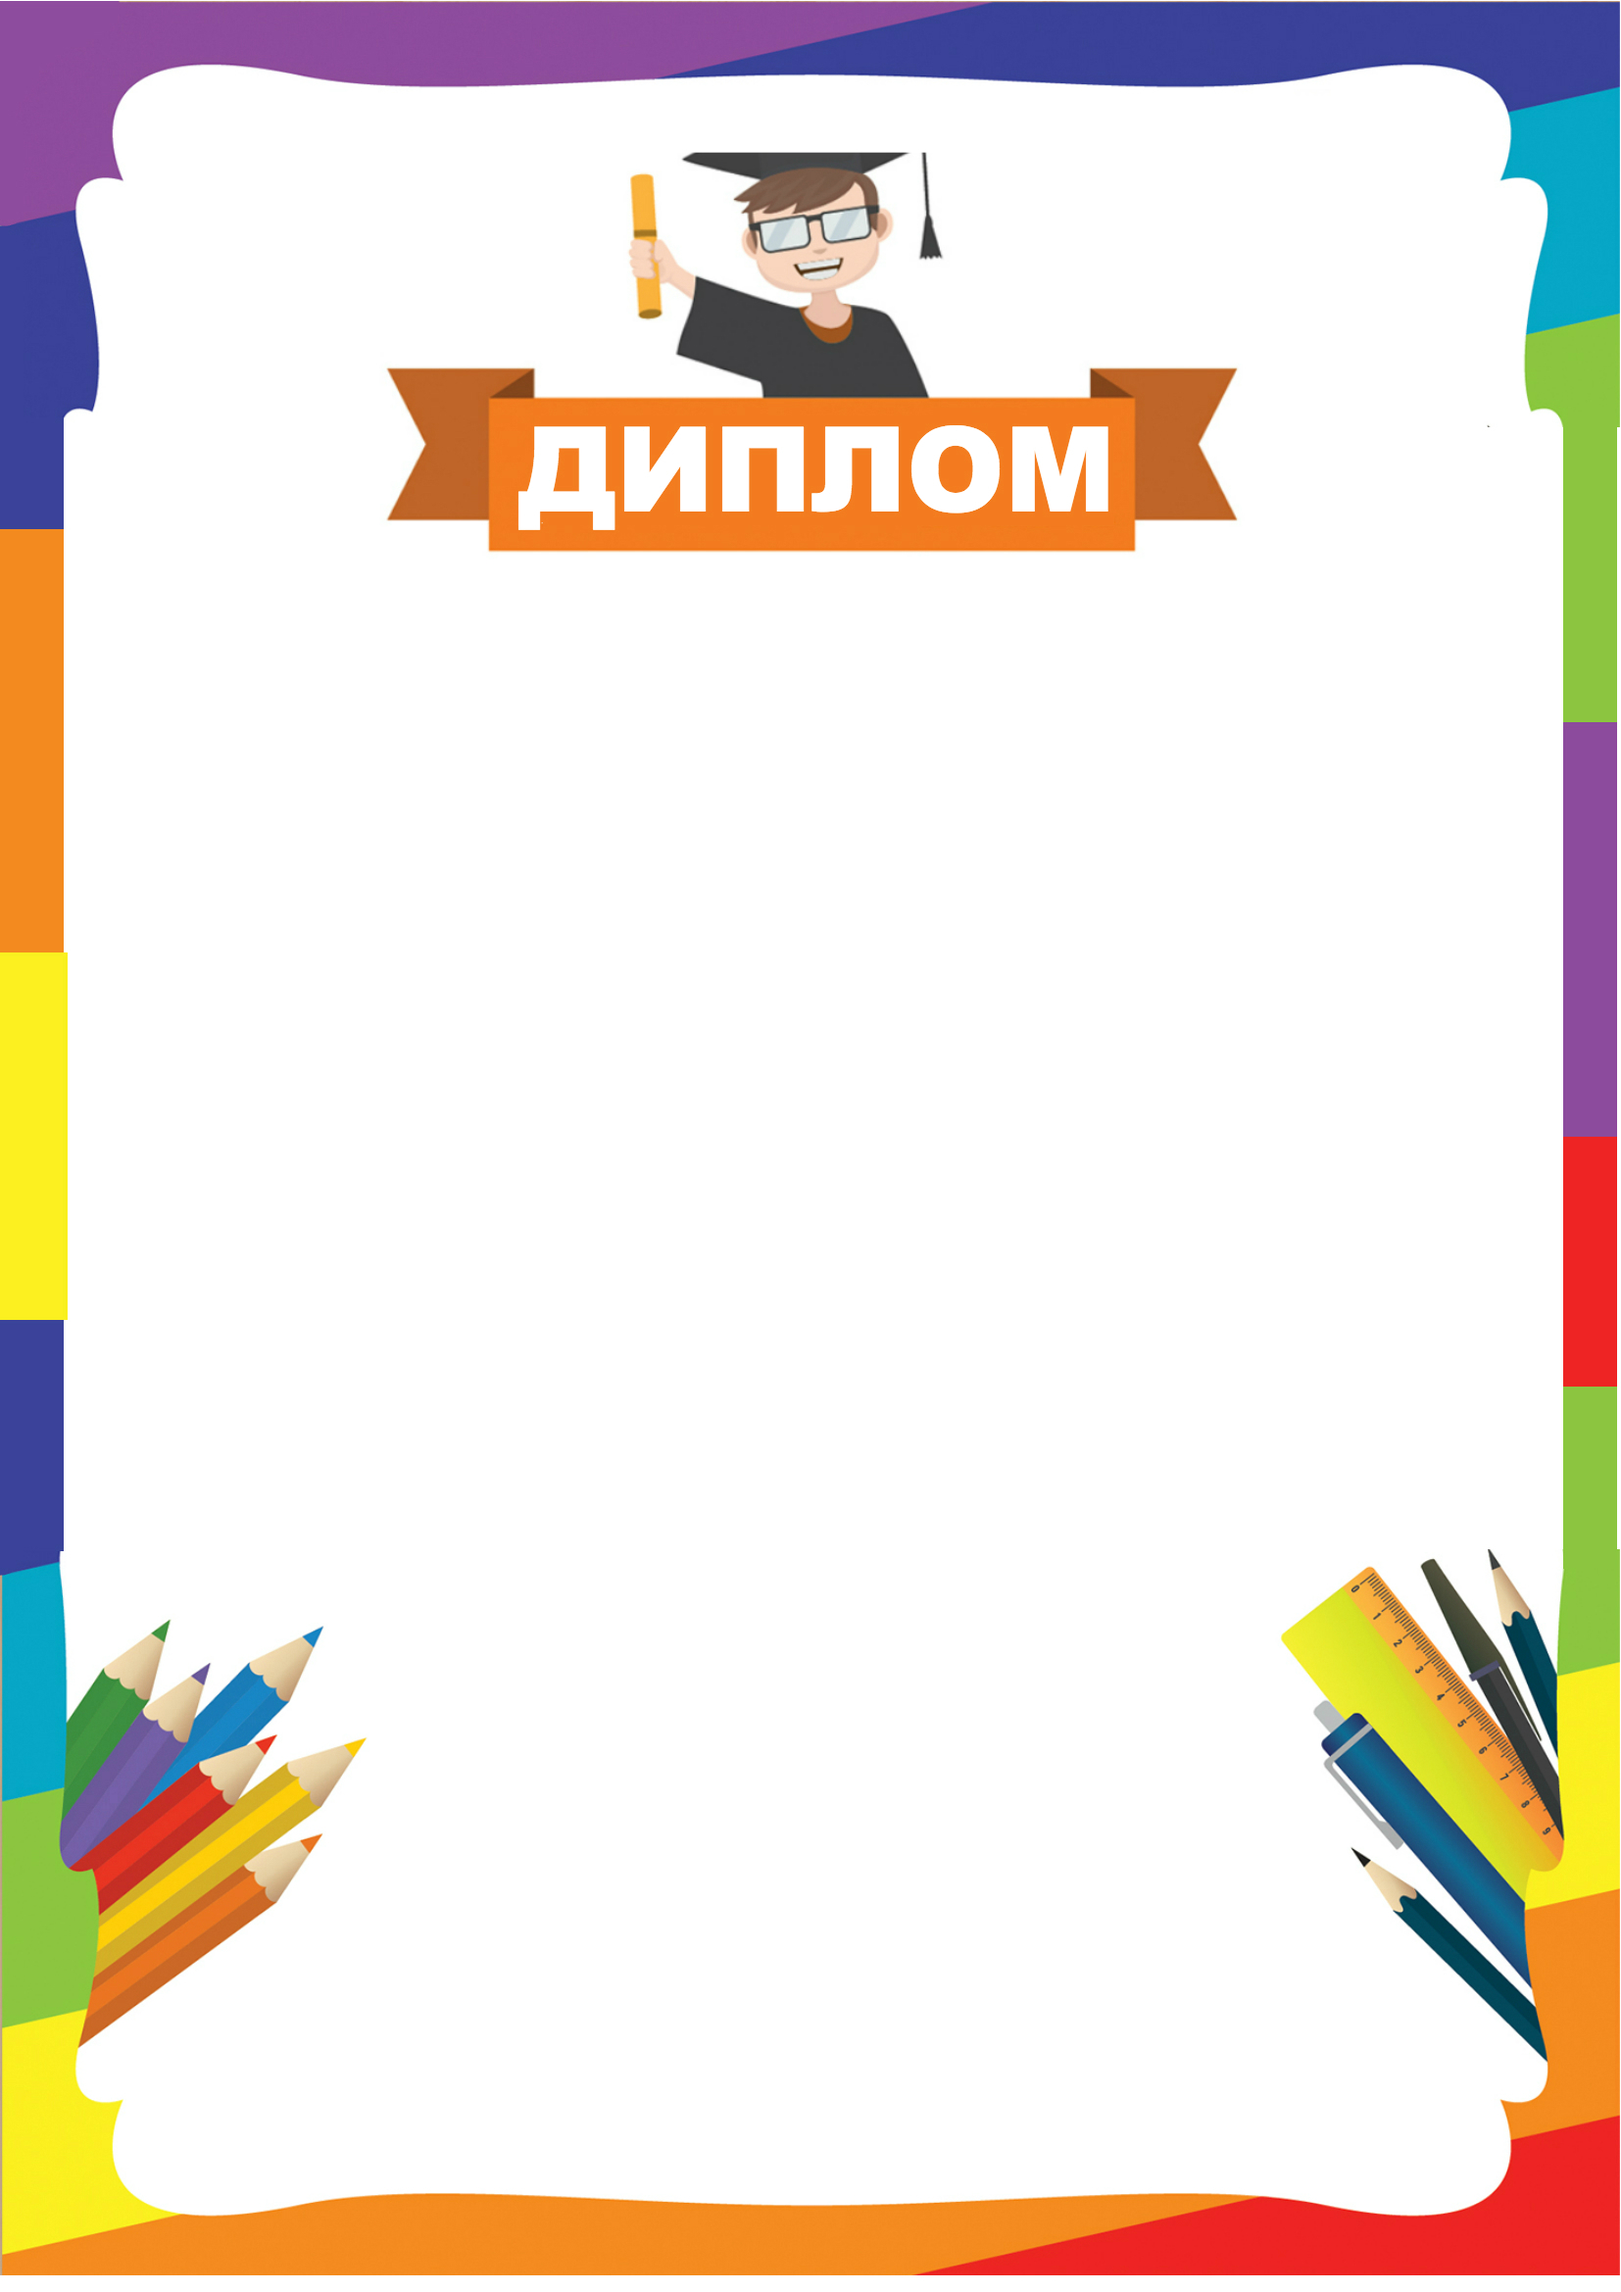
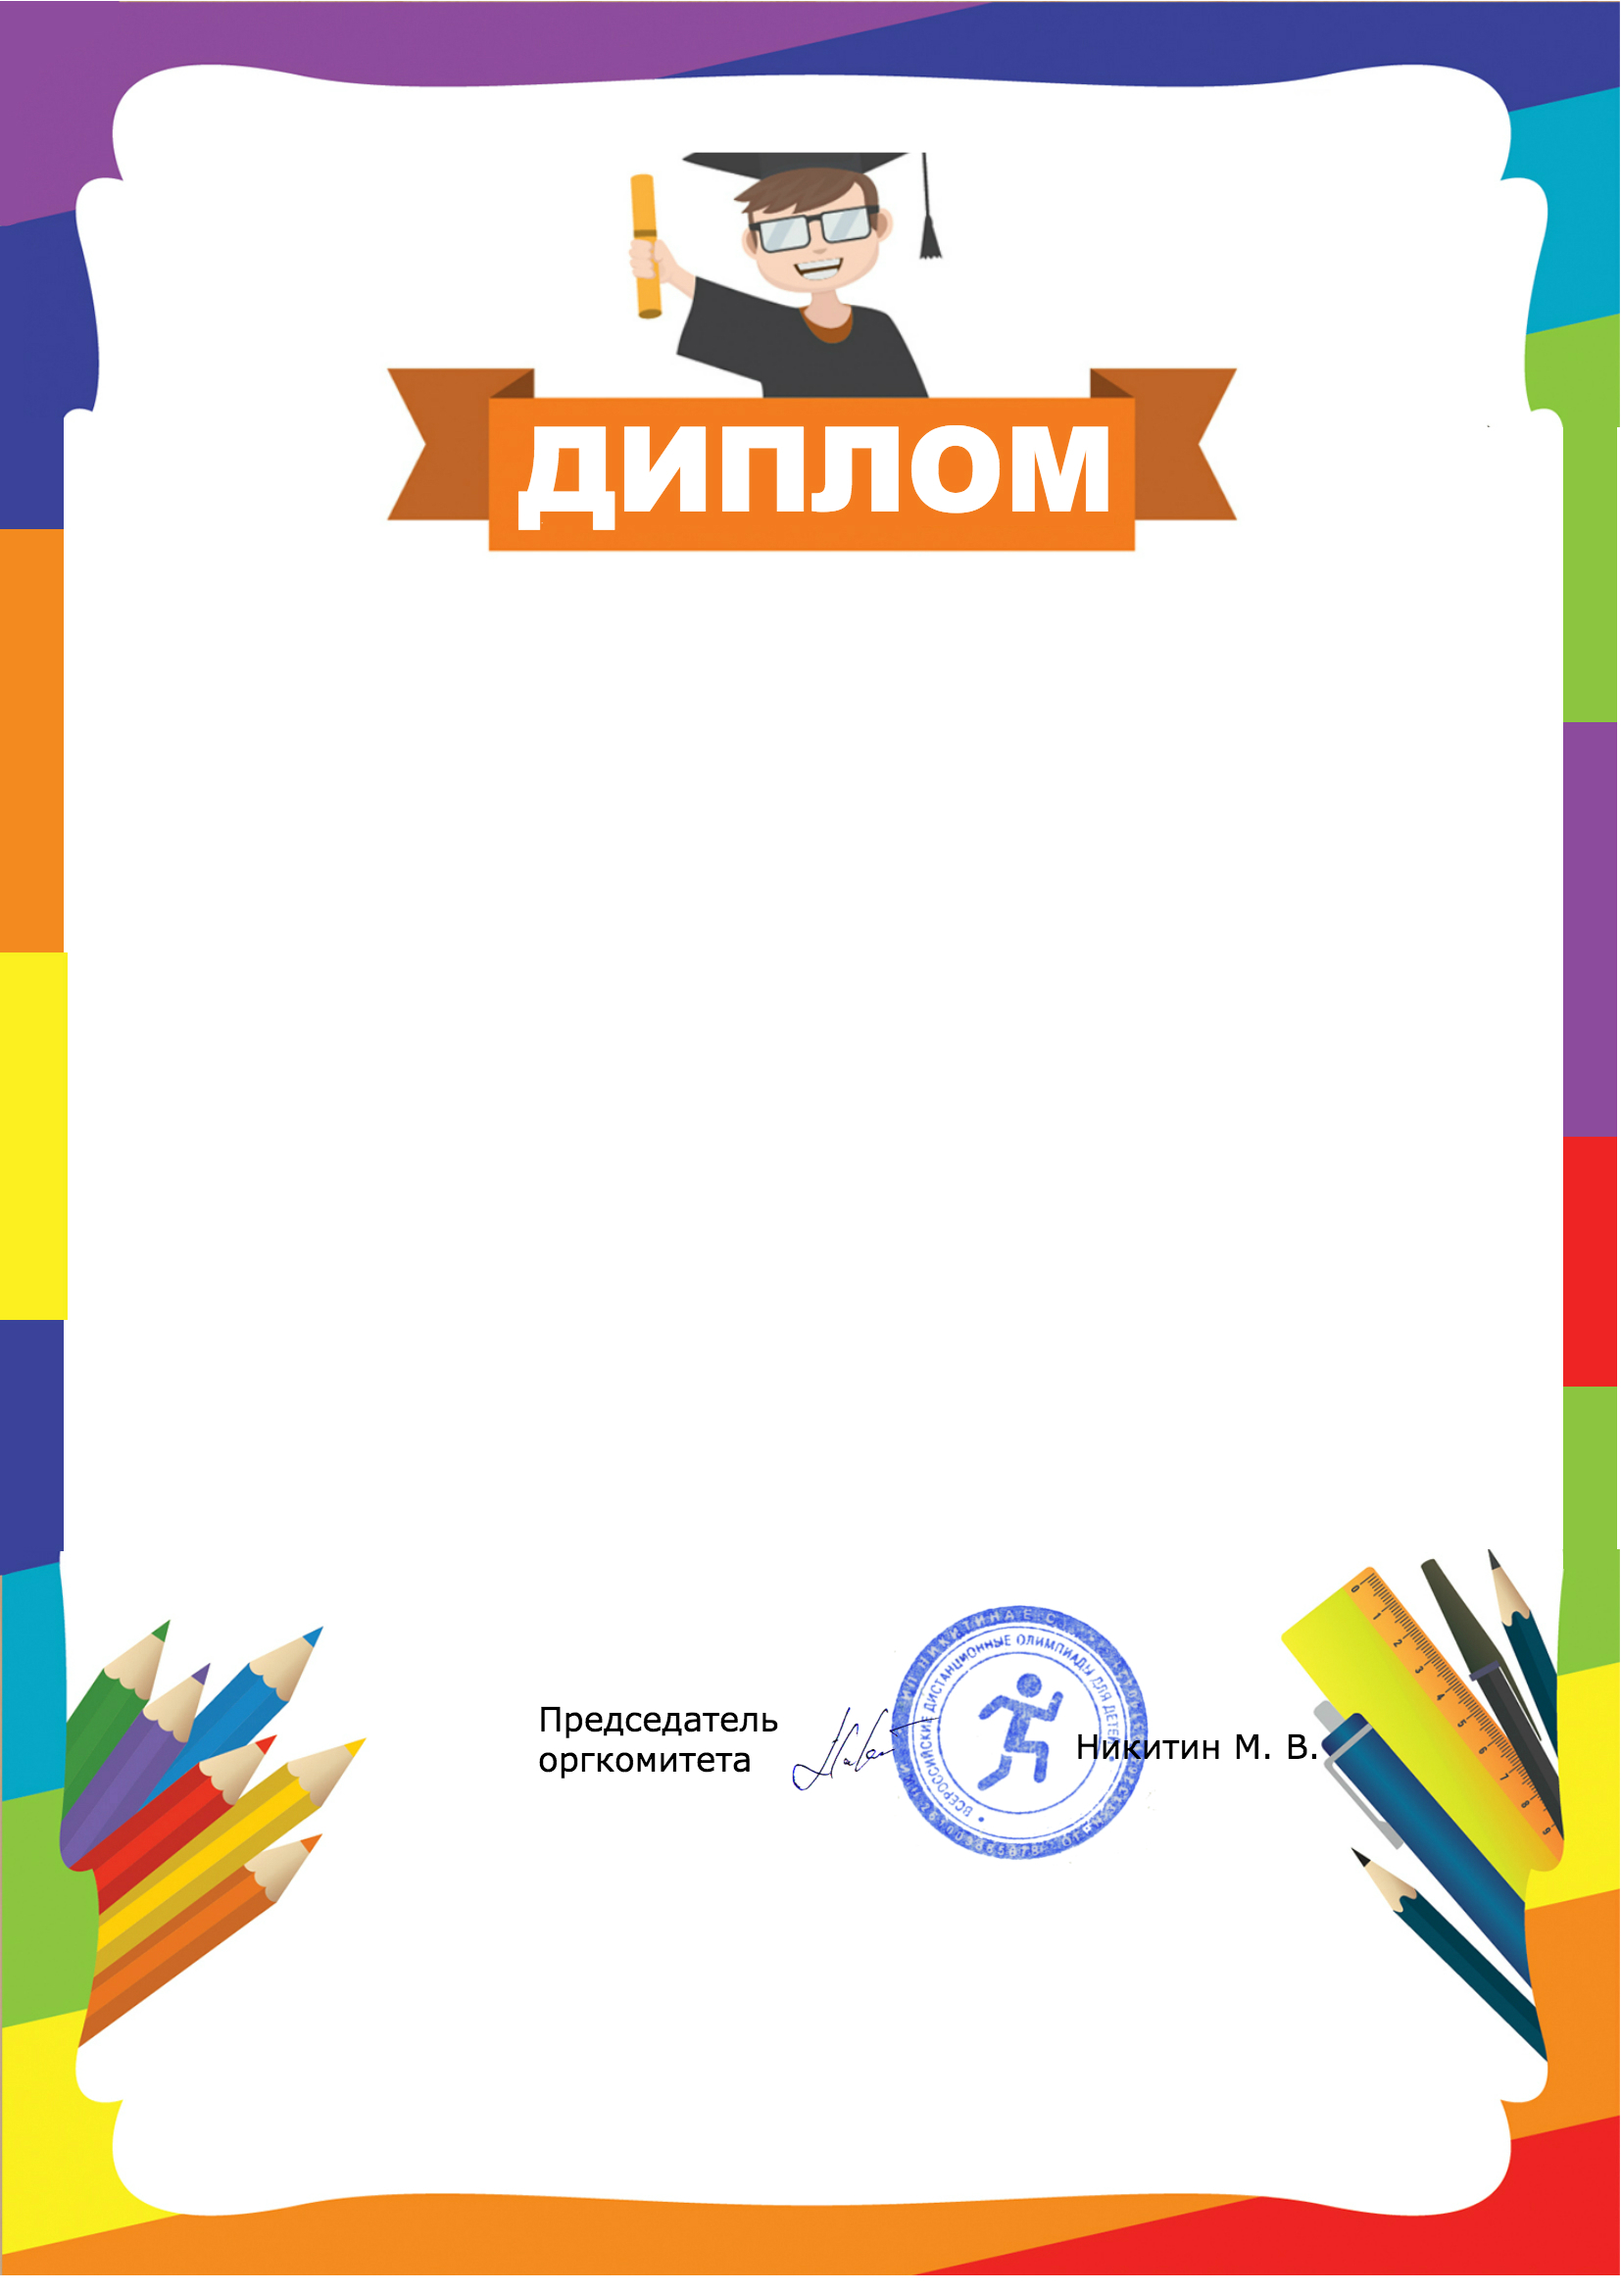
5 дипломов готовы к продаже

Changed region(s): [[0.4933, 0.6866, 0.8017, 0.8115], [0.3392, 0.749, 0.4625, 0.7802]]

diff --git a/app/models/honor.rb b/app/models/honor.rb
@@ -44,10 +44,16 @@ class Honor < ActiveRecord::Base
     margin_date=0
     margin_diploma_number=0
     color_diploma_number="#ffffff"
-    if quest_id == 3
+    vertical_margin_date=0
+    if quest_id == 3 || quest_id == 11
       reward_text_position=720
     elsif quest_id == 8
       reward_text_position=700
+      margin_date = -250
+    elsif quest_id == 14
+      reward_text_position=500
+      margin_date = -368
+      vertical_margin_date = 190
     elsif quest_id == 38 || quest_id == 41
     	reward_text_position = '640'
     	margin_date = -50
@@ -90,12 +96,16 @@ class Honor < ActiveRecord::Base
       	c.pointsize '46'
       	c.draw "text 0,#{position+580} 'Педагог: #{self.curator}'"
       end
+      
       c.pointsize '36'
-      c.draw "text #{78+margin_date},1630 '#{Russian::strftime(self.created_at, "%d.%m.%Y г.")}'"
-      c.pointsize '36'
-      c.draw "text #{50+margin_date},1730 'Главный\nредактор'"
-      c.pointsize '36'
-      c.draw "text #{600+margin_date},1750 'Никитин М. В.'"
+      c.draw "text #{78+margin_date},#{1630+vertical_margin_date} '#{Russian::strftime(self.created_at, "%d.%m.%Y г.")}'"
+      
+      if quest_id == 3 || quest_id == 6 || quest_id == 11
+        c.pointsize '36'
+        c.draw "text #{50+margin_date},1730 'Главный\nредактор'"
+        c.pointsize '36'
+        c.draw "text #{600+margin_date},1750 'Никитин М. В.'"
+      end
       c.pointsize '36'
       c.fill color_diploma_number
       c.draw "text 0,#{2280+margin_diploma_number} '№ M-#{self.id}'"

diff --git a/app/controllers/honors_controller.rb b/app/controllers/honors_controller.rb
@@ -15,9 +15,9 @@ class HonorsController < ApplicationController
       when 8
          @output_diploma = @honor.diploma_number1(@honor.quest_id, 800)
       when 11
-         @output_diploma = @honor.diploma_number1(@honor.quest_id, 910)
+         @output_diploma = @honor.diploma_number1(@honor.quest_id, 815)
       when 14
-         @output_diploma = @honor.diploma_number1(@honor.quest_id, 910)
+         @output_diploma = @honor.diploma_number1(@honor.quest_id, 620)
       when 17
          @output_diploma = @honor.diploma_number1(@honor.quest_id, 710)
       when 19
